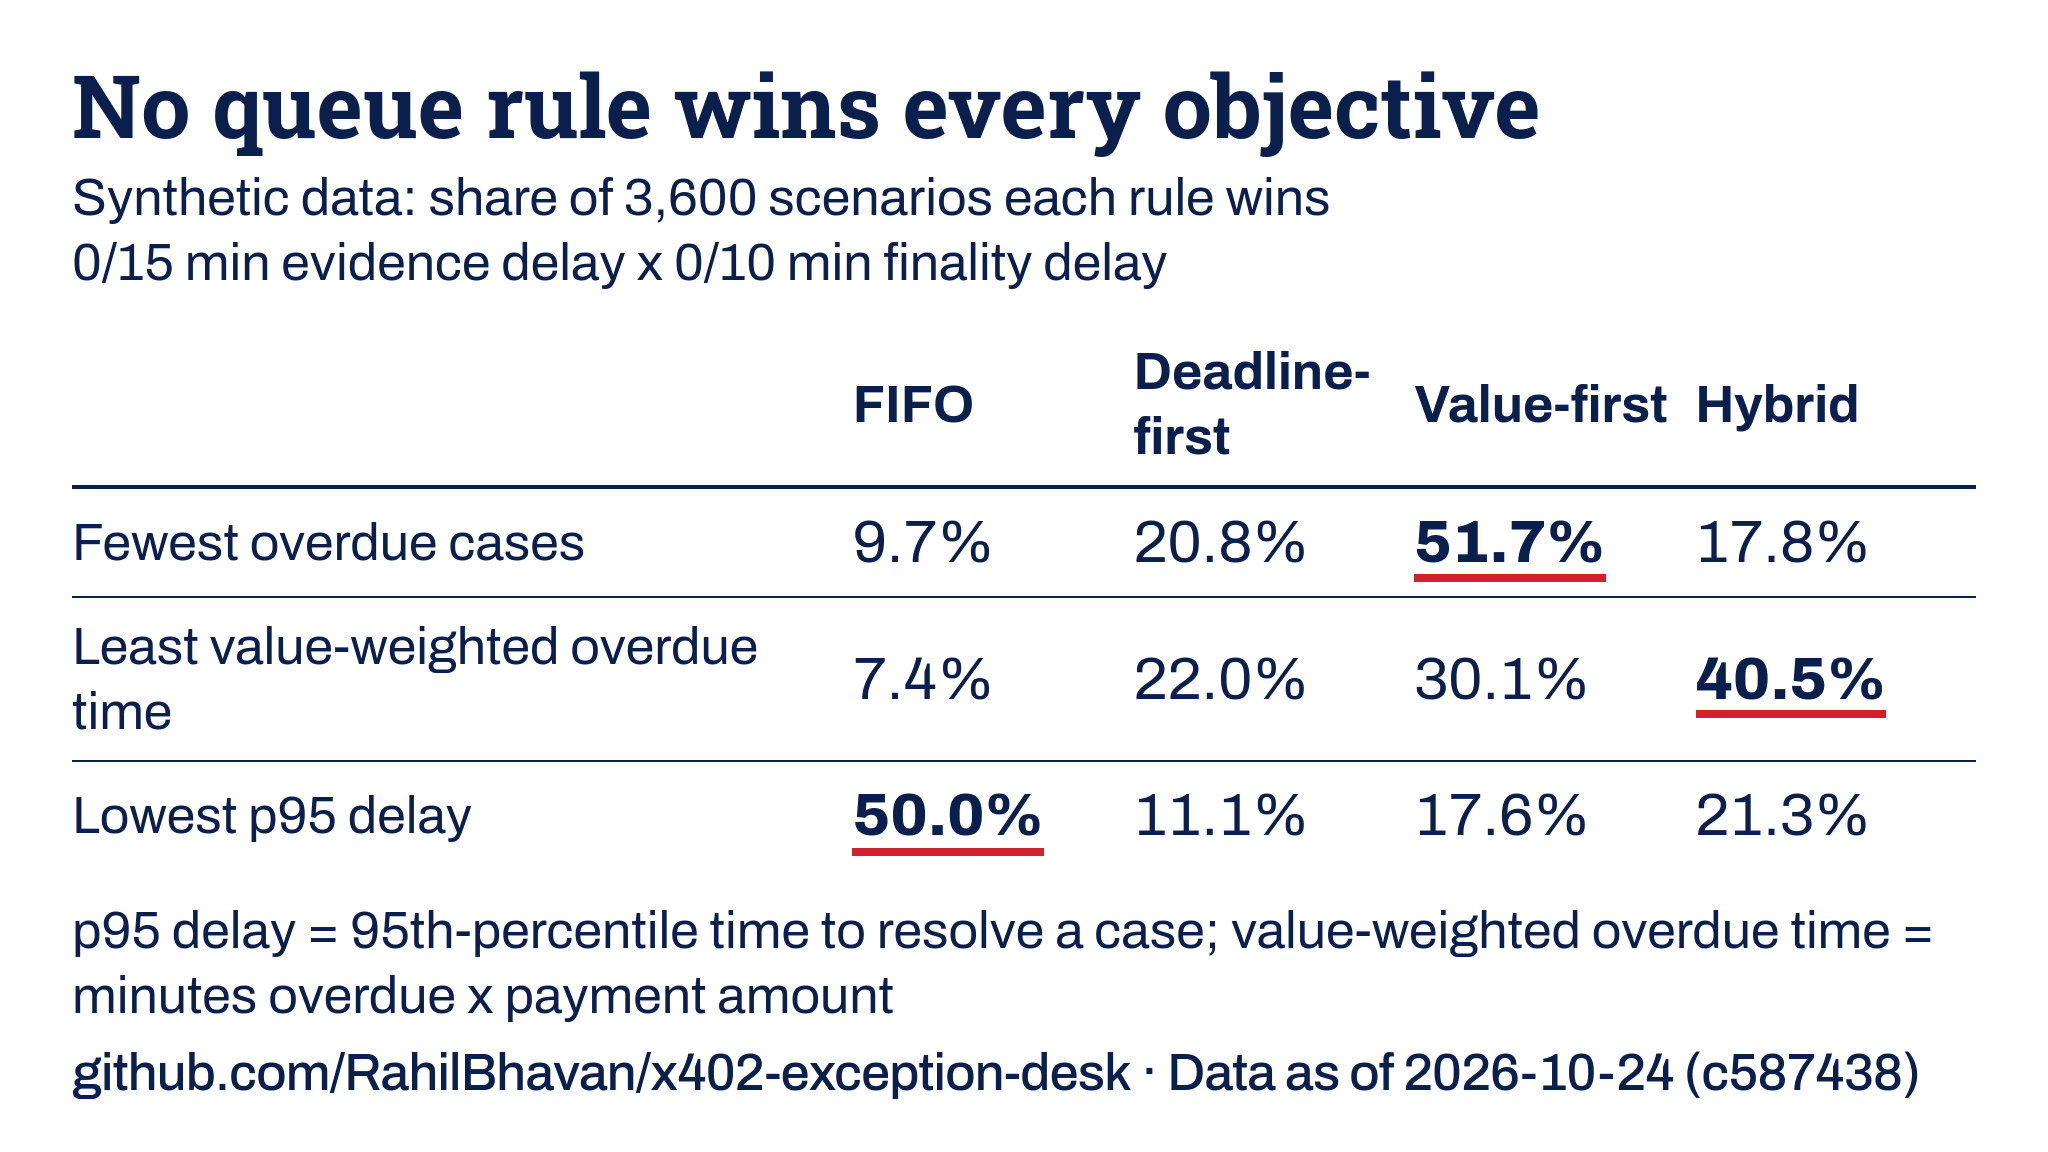
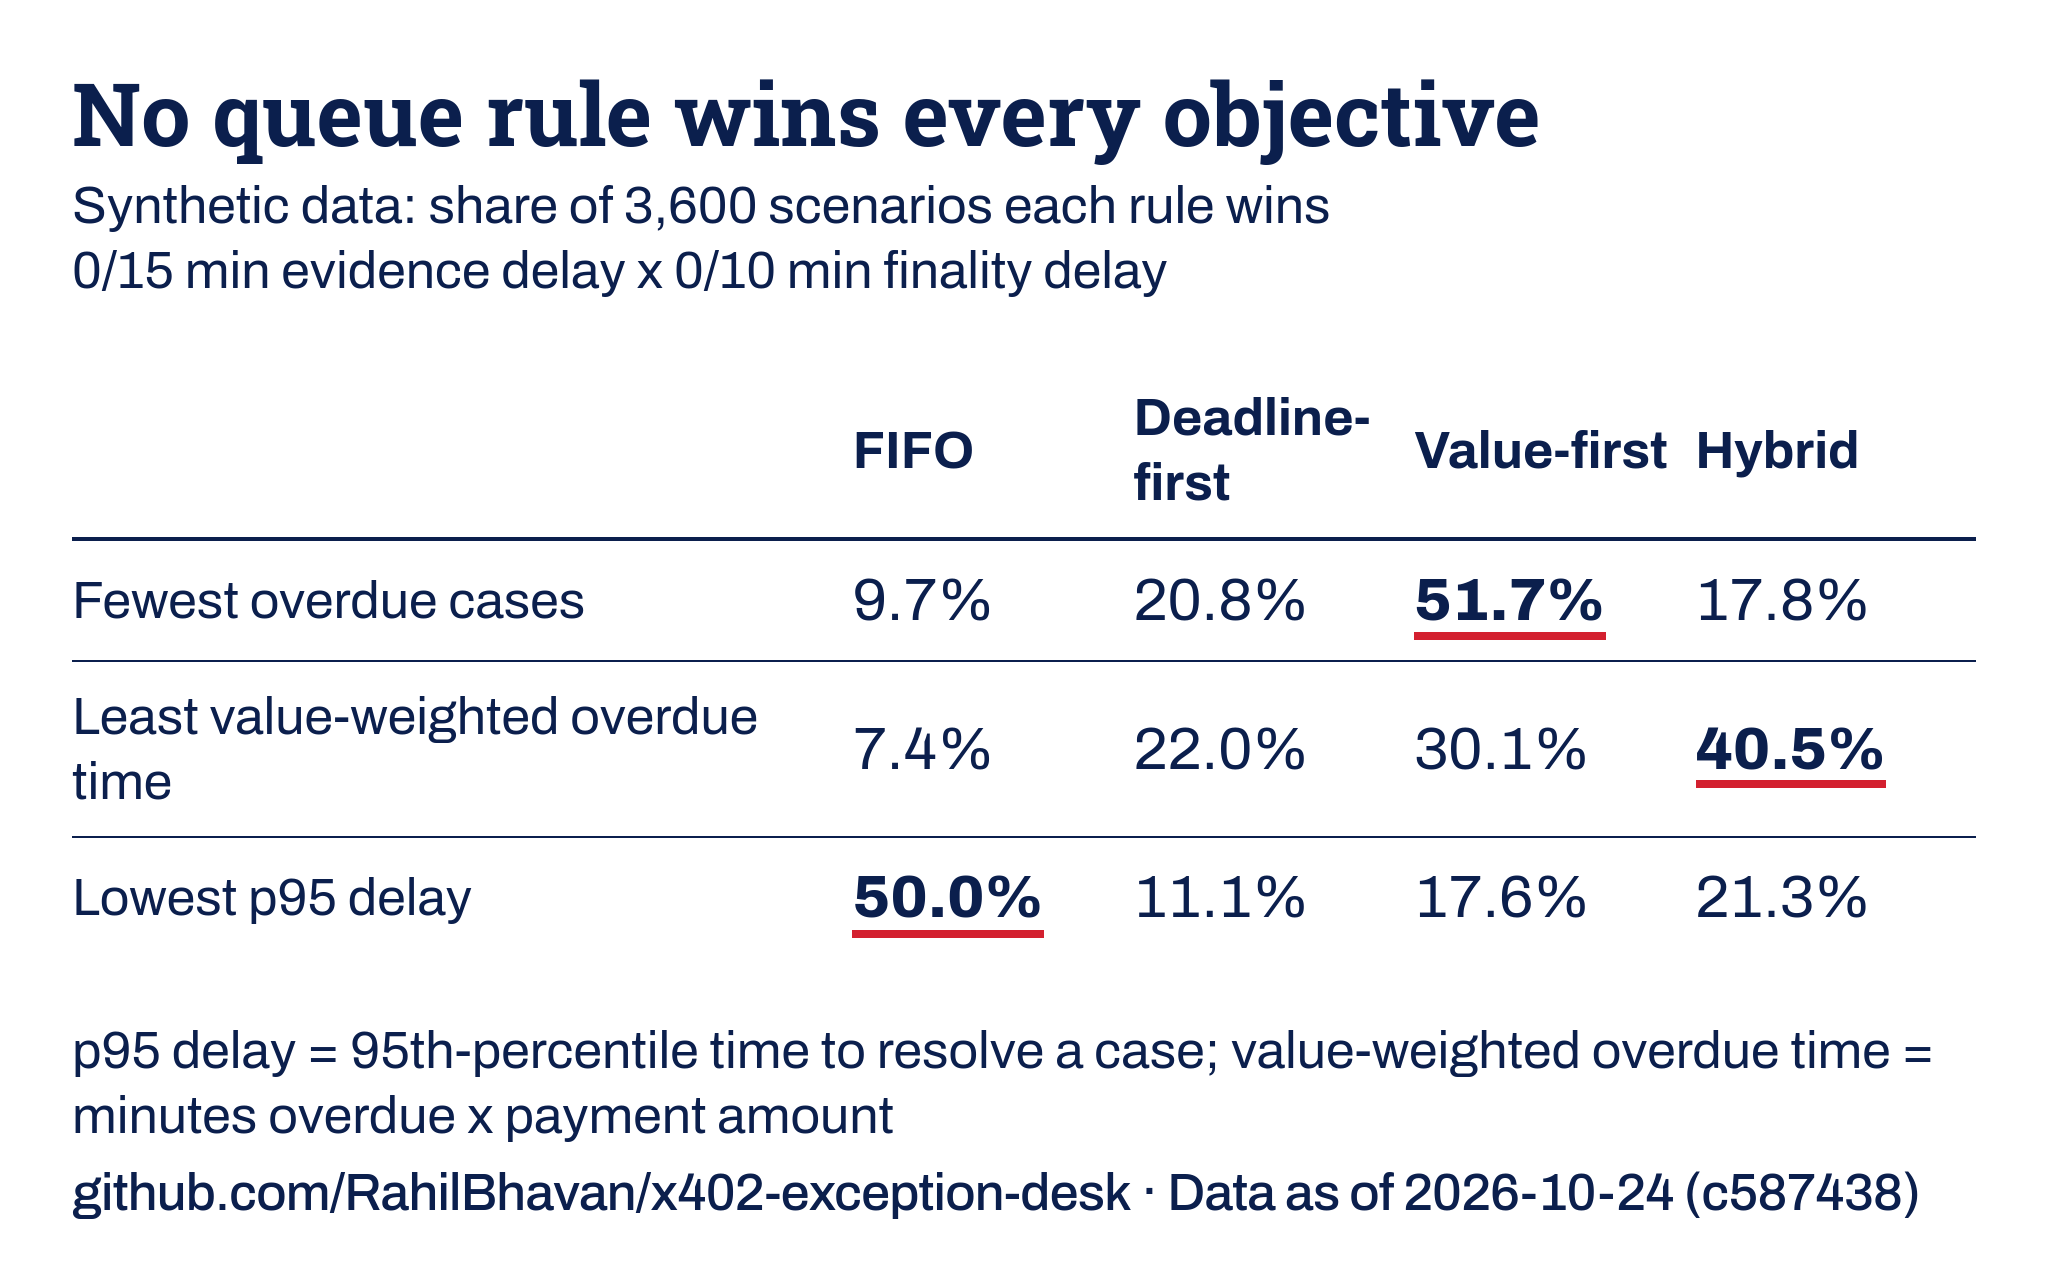
Add DESIGN.md and render the sweep card landscape at 1024x640
The landscape PNG was 1024x576. It is now 1024x640 (2048x1280 at 2x) with
the extra height spent on padding. The square PNG is byte-identical.
DESIGN.md records the navy/red, Roboto Slab/Archivo spec and marks it as
design review pending because it conflicts with rahil-design 3.3.1.

diff --git a/docs/x-post-chart/build_chart.py b/docs/x-post-chart/build_chart.py
@@ -6,7 +6,7 @@ win rates become one-decimal percentages, and the best policy per objective is t
 It needs the Python standard library plus Node with Playwright and a browser (`npm install playwright`,
 `npx playwright install firefox`). Set PLAYWRIGHT_NODE_MODULES to the node_modules directory if Node cannot find
 Playwright, and BROWSER to firefox (default), chromium or webkit.
-Outputs, next to this file: scenario-sweep-landscape.png (2048x1152), scenario-sweep-square.png (2048x2048)
+Outputs, next to this file: scenario-sweep-landscape.png (2048x1280), scenario-sweep-square.png (2048x2048)
 and alt-text.txt.
 """
 from __future__ import annotations
@@ -26,7 +26,7 @@ HERE = Path(__file__).resolve().parent
 ROOT = HERE.parents[1]
 SUMMARY = ROOT / "artifacts" / "generated" / "scenario-sweep-summary.json"
 SCALE = 2
-CANVASES = {"landscape": (1024, 576), "square": (1024, 1024)}
+CANVASES = {"landscape": (1024, 640), "square": (1024, 1024)}
 
 TITLE = "No queue rule wins every objective"
 SWEEP_LINE = "0/15 min evidence delay x 0/10 min finality delay"
@@ -136,12 +136,12 @@ td {{ font-variant-numeric: tabular-nums; }}
 td.win span {{ font-weight: 800; text-decoration: underline; text-decoration-color: {RED};
   text-decoration-thickness: 4px; text-underline-offset: 6px; text-decoration-skip-ink: none; }}
 .source {{ font-weight: 500; letter-spacing: -0.015em; white-space: nowrap; }}
-.landscape {{ padding: 28px 36px 24px; }}
+.landscape {{ padding: 32px 36px 28px; }}
 .landscape h1 {{ font-size: 44px; }}
 .landscape .lede {{ margin-top: 6px; }}
 .landscape table {{ margin-top: 12px; }}
 .landscape col.label {{ width: 41%; }}
-.landscape th, .landscape td {{ padding: 8px 0; }}
+.landscape th, .landscape td {{ padding: 11px 0; }}
 .landscape td {{ font-size: 30px; }}
 .landscape .note {{ margin-top: 12px; }}
 .landscape .source {{ margin-top: 6px; }}

diff --git a/DESIGN.md b/DESIGN.md
@@ -1,0 +1,67 @@
+# Design system: x402 Exception Desk post cards
+
+This file governs the public post cards for this project (`docs/x-post-chart/`). It records the spec requested for the Thursday 2026-10-29 09:30 ET card. The build script and the card checker in `docs/x-post-chart/` enforce the rules marked "checked".
+
+**Status: design review pending.** This spec is navy and red with Roboto Slab and Archivo. Rahil's canonical public system (`rahil-design` 3.3.1) is charcoal, white and yellow with Anton and IBM Plex Sans. The two conflict. The navy and red look was already merged into this repository in #9 and #10, but no recorded decision from Rahil makes it the system for the Thursday post. Until Rahil confirms it, or asks for a rebuild in `rahil-design`, treat the card as a review draft. Passing CI or building the PNGs does not approve it.
+
+## Principles
+
+1. **The title is the takeaway.** It states the finding as a sentence, not a topic. Current card: "No queue rule wins every objective."
+2. **One highlight.** Navy carries everything. Red marks only the winning values and never decorates.
+3. **Say what the data is.** Every card says "Synthetic data", gives the scenario count and defines any metric a reader may not know.
+4. **Every number traces to a file.** Values come from `artifacts/generated/scenario-sweep-summary.json` and are formatted to one decimal place. Nothing is typed by hand.
+5. **Text survives a phone feed.** Nothing is smaller than 26px at the 1024px design width.
+
+## Colour
+
+| Role | Value | Use | Contrast on white |
+| --- | --- | --- | --- |
+| Navy | `#0b1f4d` | All text, rules, bold winning values | 15.9:1 |
+| Red | `#d3202f` | Underline under winning values only | 5.2:1 |
+| White | `#ffffff` | Card background | |
+
+Red is never used as text colour on navy (3.0:1) and never as a second series. No other hues. Meaning never depends on colour alone: winning cells are also bold, so the card reads in greyscale.
+
+## Type
+
+| Role | Family | Weight | Size (1024px wide) |
+| --- | --- | --- | --- |
+| Title | Roboto Slab (Apache 2.0) | 700 | 44px landscape, 68px square |
+| Body, labels, footer | Archivo (SIL OFL) | 400, 500, 700 | 26px minimum |
+| Table values | Archivo, tabular figures | 400, winners 800 | 30px landscape, 40px square |
+
+Fonts ship in `docs/x-post-chart/fonts/` with their licences. The build fails if either font does not load. All text is at least 26px at 1024px wide (checked).
+
+## Formats
+
+| Format | CSS size | PNG size | Use |
+| --- | --- | --- | --- |
+| Landscape | 1024 x 640 | 2048 x 1280 | Single image in a post |
+| Square | 1024 x 1024 | 2048 x 2048 | Multi-image posts and feeds that crop to square |
+
+PNGs render at 2x for sharpness. Both formats carry identical content, and only spacing and type size change between them. Padding is 36px at the sides in landscape and 56px in the square.
+
+## Layout of a table card
+
+1. Title (Roboto Slab, at most two lines).
+2. Subtitle: "Synthetic data: ..." with the scenario count, then the sweep definition.
+3. Table: objective rows, policy columns, rules between rows, no vertical rules, no fill.
+4. Footer note defining the metrics.
+5. Source line: repository, "Data as of", date and short commit SHA of the data file.
+
+The footer always ends at the bottom padding (checked).
+
+## Accessibility and alt text
+
+Alt text is generated from the same rows as the image, so it cannot drift from the card. It names the title, the data type, every value, each winner and how winners are marked. It stays under X's 1,000-character limit (checked).
+
+## Checks before a card goes anywhere
+
+- `python3 docs/x-post-chart/build_chart.py` passes: font loaded, text >= 26px, nothing outside the canvas, footer on the bottom padding, PNG dimensions exact.
+- The post text and the card make the same claim and use the same numbers.
+- The card is viewed at phone and feed size.
+- Rahil confirms the palette and type, or the card is rebuilt in his system.
+
+## Not covered
+
+This file does not cover the private Orbit hub, client work or website pages. It does not authorise posting.

diff --git a/docs/x-post-chart/README.md b/docs/x-post-chart/README.md
@@ -1,10 +1,10 @@
 # Scenario sweep chart for the X post
 
-`scenario-sweep-landscape.png` (1024x576 at 2x) and `scenario-sweep-square.png` (1024x1024 at 2x) show who wins each objective in the 3,600-scenario sweep. `alt-text.txt` is the image description.
+`scenario-sweep-landscape.png` (1024x640 at 2x) and `scenario-sweep-square.png` (1024x1024 at 2x) show who wins each objective in the 3,600-scenario sweep. `alt-text.txt` is the image description.
 
 Every number is read from `artifacts/generated/scenario-sweep-summary.json` and formatted to one decimal place. The footer date and short SHA come from the last commit that changed that file.
 
-Design: navy and red on white, Roboto Slab titles (Apache 2.0) and Archivo body text (SIL OFL), all text at least 26px at 1024px wide. Winning cells are bold navy with a red underline. The fonts and licenses are in `fonts/`.
+Design (see `DESIGN.md` at the repository root): navy and red on white, Roboto Slab titles (Apache 2.0) and Archivo body text (SIL OFL), all text at least 26px at 1024px wide. Winning cells are bold navy with a red underline. The fonts and licenses are in `fonts/`.
 
 Rebuild after the sweep file changes:
 

diff --git a/CHANGELOG.md b/CHANGELOG.md
@@ -5,9 +5,11 @@
 ### Added
 
 - `docs/x-post-chart/`: the scenario-sweep chart for the X post as a landscape and a square PNG, with its build script and alt text. The numbers come from `scenario-sweep-summary.json`.
+- `DESIGN.md`: the design spec for the post cards (navy and red, Roboto Slab and Archivo, 26px minimum text, 1024x640 and 1024x1024).
 
 ### Changed
 
+- The sweep card's landscape PNG is now 1024x640 (2048x1280 at 2x), up from 1024x576. The square PNG is unchanged.
 - The generated SQLite file is no longer tracked or packaged, because its bytes differ between SQLite builds. The release ZIP and checksum now match on Python 3.9, 3.11 and 3.14.
 - The release ZIP checksum changed from the one published with v1.1.0. The generated SQLite file left the package, and the earlier ZIP predated the changes in #6.
 - Correction to v1.1.0: the entry that says memo PDF rebuilds are byte-identical was not checked. The builder sets fixed dates and a fixed document ID, but the release does not rebuild the memo and CI does not compare rebuilds.
